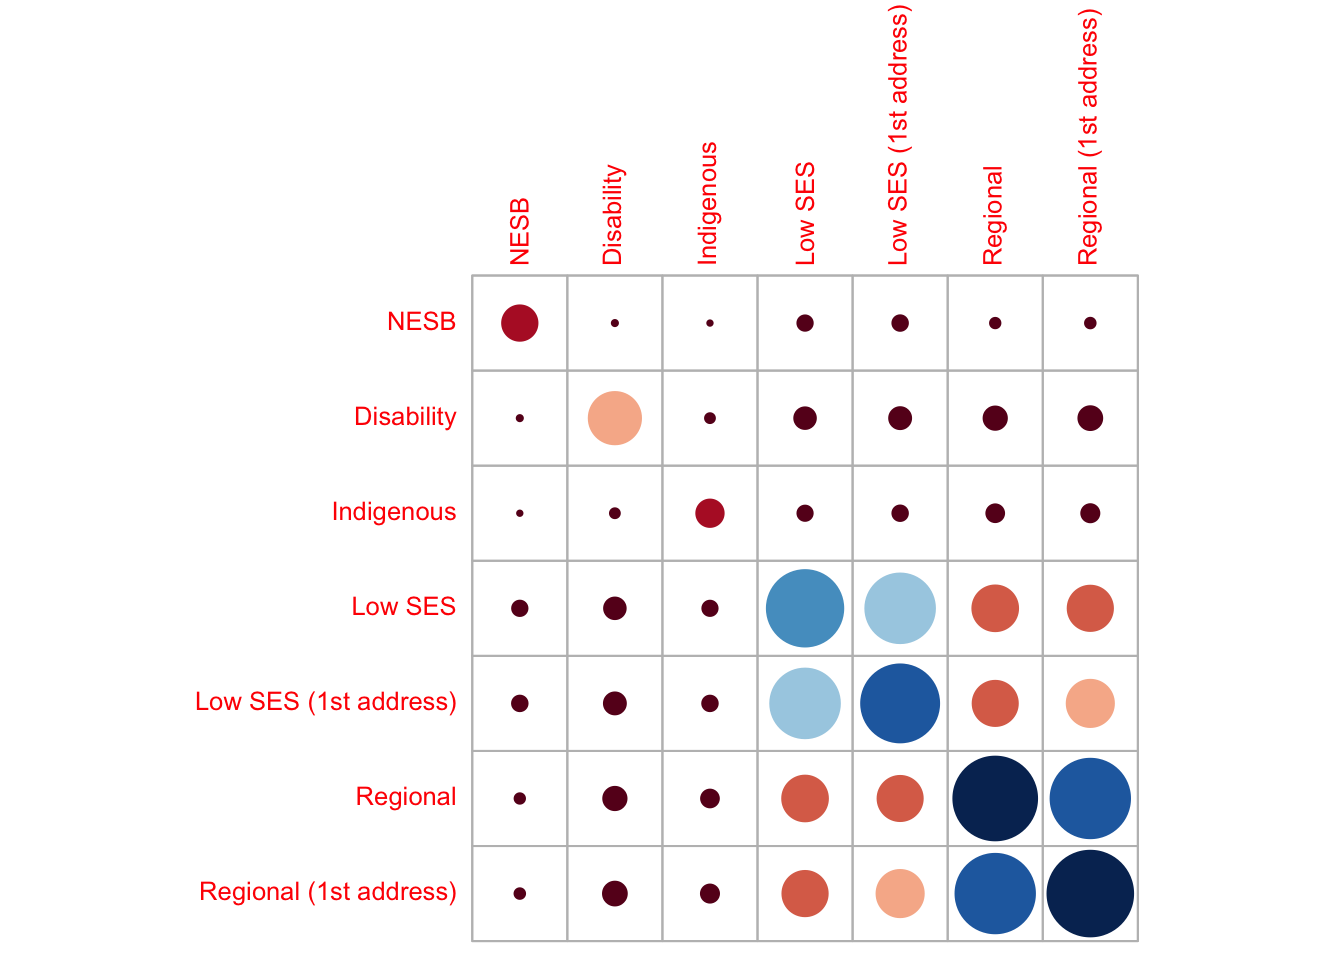
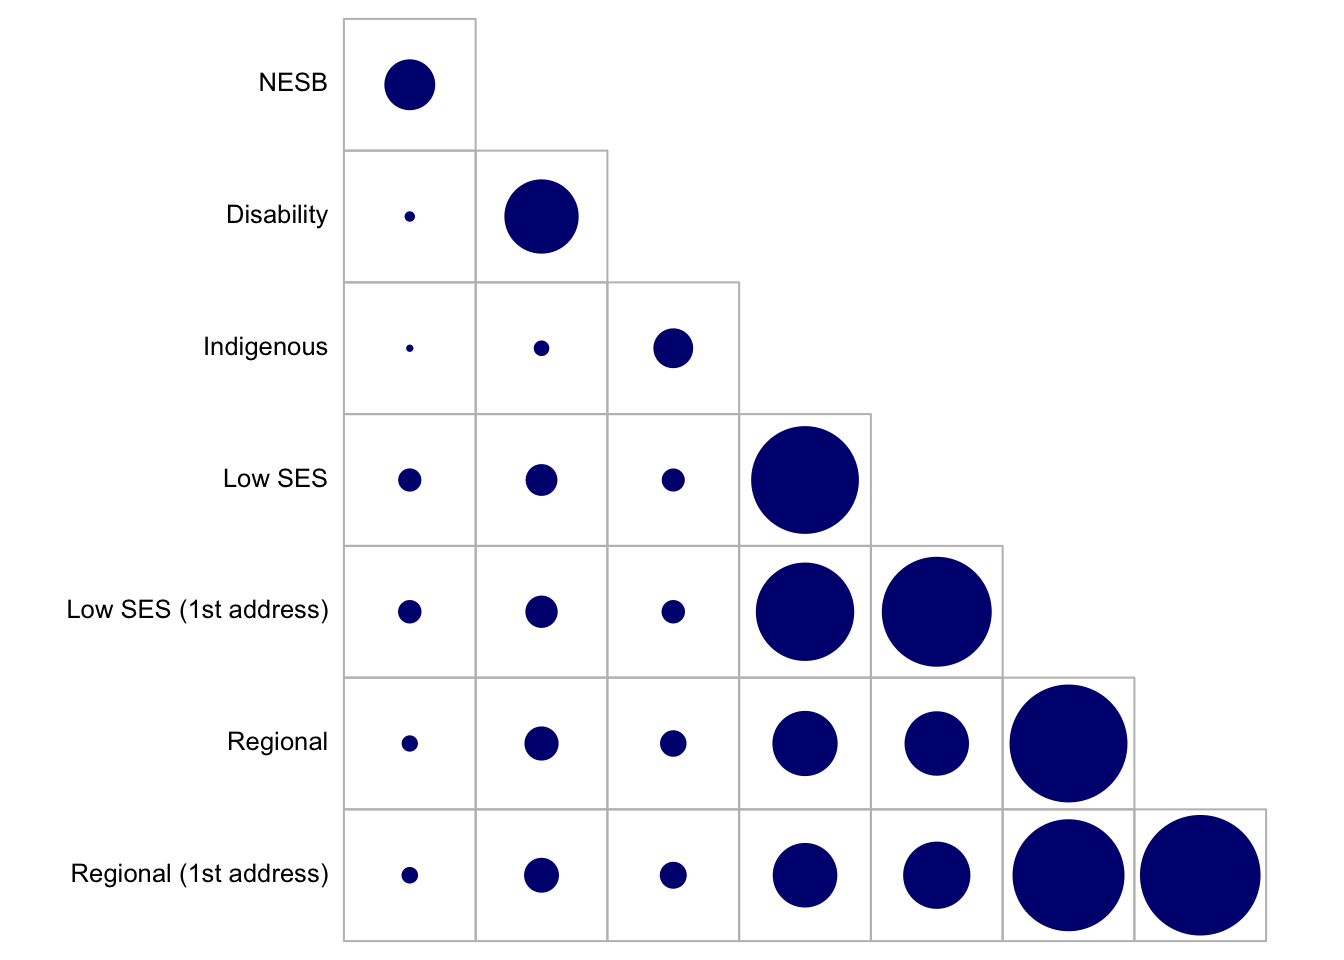
up

diff --git a/correlogram.html b/correlogram.html
@@ -20,69 +20,6 @@ ul.task-list li input[type="checkbox"] {
   margin: 0 0.8em 0.2em -1.6em;
   vertical-align: middle;
 }
-pre > code.sourceCode { white-space: pre; position: relative; }
-pre > code.sourceCode > span { display: inline-block; line-height: 1.25; }
-pre > code.sourceCode > span:empty { height: 1.2em; }
-.sourceCode { overflow: visible; }
-code.sourceCode > span { color: inherit; text-decoration: inherit; }
-div.sourceCode { margin: 1em 0; }
-pre.sourceCode { margin: 0; }
-@media screen {
-div.sourceCode { overflow: auto; }
-}
-@media print {
-pre > code.sourceCode { white-space: pre-wrap; }
-pre > code.sourceCode > span { text-indent: -5em; padding-left: 5em; }
-}
-pre.numberSource code
-  { counter-reset: source-line 0; }
-pre.numberSource code > span
-  { position: relative; left: -4em; counter-increment: source-line; }
-pre.numberSource code > span > a:first-child::before
-  { content: counter(source-line);
-    position: relative; left: -1em; text-align: right; vertical-align: baseline;
-    border: none; display: inline-block;
-    -webkit-touch-callout: none; -webkit-user-select: none;
-    -khtml-user-select: none; -moz-user-select: none;
-    -ms-user-select: none; user-select: none;
-    padding: 0 4px; width: 4em;
-    color: #aaaaaa;
-  }
-pre.numberSource { margin-left: 3em; border-left: 1px solid #aaaaaa;  padding-left: 4px; }
-div.sourceCode
-  {   }
-@media screen {
-pre > code.sourceCode > span > a:first-child::before { text-decoration: underline; }
-}
-code span.al { color: #ff0000; font-weight: bold; } /* Alert */
-code span.an { color: #60a0b0; font-weight: bold; font-style: italic; } /* Annotation */
-code span.at { color: #7d9029; } /* Attribute */
-code span.bn { color: #40a070; } /* BaseN */
-code span.bu { color: #008000; } /* BuiltIn */
-code span.cf { color: #007020; font-weight: bold; } /* ControlFlow */
-code span.ch { color: #4070a0; } /* Char */
-code span.cn { color: #880000; } /* Constant */
-code span.co { color: #60a0b0; font-style: italic; } /* Comment */
-code span.cv { color: #60a0b0; font-weight: bold; font-style: italic; } /* CommentVar */
-code span.do { color: #ba2121; font-style: italic; } /* Documentation */
-code span.dt { color: #902000; } /* DataType */
-code span.dv { color: #40a070; } /* DecVal */
-code span.er { color: #ff0000; font-weight: bold; } /* Error */
-code span.ex { } /* Extension */
-code span.fl { color: #40a070; } /* Float */
-code span.fu { color: #06287e; } /* Function */
-code span.im { color: #008000; font-weight: bold; } /* Import */
-code span.in { color: #60a0b0; font-weight: bold; font-style: italic; } /* Information */
-code span.kw { color: #007020; font-weight: bold; } /* Keyword */
-code span.op { color: #666666; } /* Operator */
-code span.ot { color: #007020; } /* Other */
-code span.pp { color: #bc7a00; } /* Preprocessor */
-code span.sc { color: #4070a0; } /* SpecialChar */
-code span.ss { color: #bb6688; } /* SpecialString */
-code span.st { color: #4070a0; } /* String */
-code span.va { color: #19177c; } /* Variable */
-code span.vs { color: #4070a0; } /* VerbatimString */
-code span.wa { color: #60a0b0; font-weight: bold; font-style: italic; } /* Warning */
 </style>
 
 
@@ -126,39 +63,6 @@ code span.wa { color: #60a0b0; font-weight: bold; font-style: italic; } /* Warni
 <section id="correlogram" class="level2">
 <h2 class="anchored" data-anchor-id="correlogram">Correlogram</h2>
 <div class="cell">
-<div class="sourceCode cell-code" id="cb1"><pre class="sourceCode r code-with-copy"><code class="sourceCode r"><span id="cb1-1"><a href="#cb1-1" aria-hidden="true" tabindex="-1"></a><span class="fu">library</span>(corrplot)</span></code><button title="Copy to Clipboard" class="code-copy-button"><i class="bi"></i></button></pre></div>
-<div class="cell-output cell-output-stderr">
-<pre><code>corrplot 0.92 loaded</code></pre>
-</div>
-<div class="sourceCode cell-code" id="cb3"><pre class="sourceCode r code-with-copy"><code class="sourceCode r"><span id="cb3-1"><a href="#cb3-1" aria-hidden="true" tabindex="-1"></a><span class="fu">library</span>(readxl)</span>
-<span id="cb3-2"><a href="#cb3-2" aria-hidden="true" tabindex="-1"></a><span class="fu">library</span>(tidyverse)</span></code><button title="Copy to Clipboard" class="code-copy-button"><i class="bi"></i></button></pre></div>
-<div class="cell-output cell-output-stderr">
-<pre><code>── Attaching packages
-───────────────────────────────────────
-tidyverse 1.3.2 ──</code></pre>
-</div>
-<div class="cell-output cell-output-stderr">
-<pre><code>✔ ggplot2 3.4.0     ✔ purrr   1.0.1
-✔ tibble  3.1.8     ✔ dplyr   1.1.0
-✔ tidyr   1.3.0     ✔ stringr 1.5.0
-✔ readr   2.1.3     ✔ forcats 0.5.2
-── Conflicts ────────────────────────────────────────── tidyverse_conflicts() ──
-✖ dplyr::filter() masks stats::filter()
-✖ dplyr::lag()    masks stats::lag()</code></pre>
-</div>
-<div class="sourceCode cell-code" id="cb6"><pre class="sourceCode r code-with-copy"><code class="sourceCode r"><span id="cb6-1"><a href="#cb6-1" aria-hidden="true" tabindex="-1"></a>dataP<span class="ot">&lt;-</span><span class="fu">read_excel</span>(<span class="st">"/Users/e5028514/Downloads/Equity group analysis.xlsx"</span>)<span class="sc">%&gt;%</span><span class="fu">select</span>(<span class="sc">-</span><span class="dv">1</span>)</span>
-<span id="cb6-2"><a href="#cb6-2" aria-hidden="true" tabindex="-1"></a><span class="fu">rownames</span>(dataP)<span class="ot">&lt;-</span><span class="fu">colnames</span>(dataP)</span></code><button title="Copy to Clipboard" class="code-copy-button"><i class="bi"></i></button></pre></div>
-<div class="cell-output cell-output-stderr">
-<pre><code>Warning: Setting row names on a tibble is deprecated.</code></pre>
-</div>
-<div class="sourceCode cell-code" id="cb8"><pre class="sourceCode r code-with-copy"><code class="sourceCode r"><span id="cb8-1"><a href="#cb8-1" aria-hidden="true" tabindex="-1"></a><span class="fu">corrplot</span>(<span class="fu">as.matrix</span>(dataP), <span class="at">is.corr =</span> <span class="cn">FALSE</span>, </span>
-<span id="cb8-2"><a href="#cb8-2" aria-hidden="true" tabindex="-1"></a>         <span class="at">tl.pos=</span><span class="st">'lt'</span>, </span>
-<span id="cb8-3"><a href="#cb8-3" aria-hidden="true" tabindex="-1"></a>        <span class="co"># order = 'AOE', </span></span>
-<span id="cb8-4"><a href="#cb8-4" aria-hidden="true" tabindex="-1"></a>         <span class="at">col =</span> <span class="fu">COL2</span>(<span class="st">'RdBu'</span>, <span class="dv">10</span>),</span>
-<span id="cb8-5"><a href="#cb8-5" aria-hidden="true" tabindex="-1"></a>         <span class="at">diag=</span><span class="cn">TRUE</span>,</span>
-<span id="cb8-6"><a href="#cb8-6" aria-hidden="true" tabindex="-1"></a>         <span class="at">type =</span> <span class="st">'full'</span>,</span>
-<span id="cb8-7"><a href="#cb8-7" aria-hidden="true" tabindex="-1"></a>        <span class="at">cl.pos =</span> <span class="st">'n'</span>,</span>
-<span id="cb8-8"><a href="#cb8-8" aria-hidden="true" tabindex="-1"></a>        <span class="at">tl.cex =</span> <span class="fl">0.8</span>)</span></code><button title="Copy to Clipboard" class="code-copy-button"><i class="bi"></i></button></pre></div>
 <div class="cell-output-display">
 <p><img src="correlogram_files/figure-html/unnamed-chunk-1-1.png" class="img-fluid" width="672"></p>
 </div>
